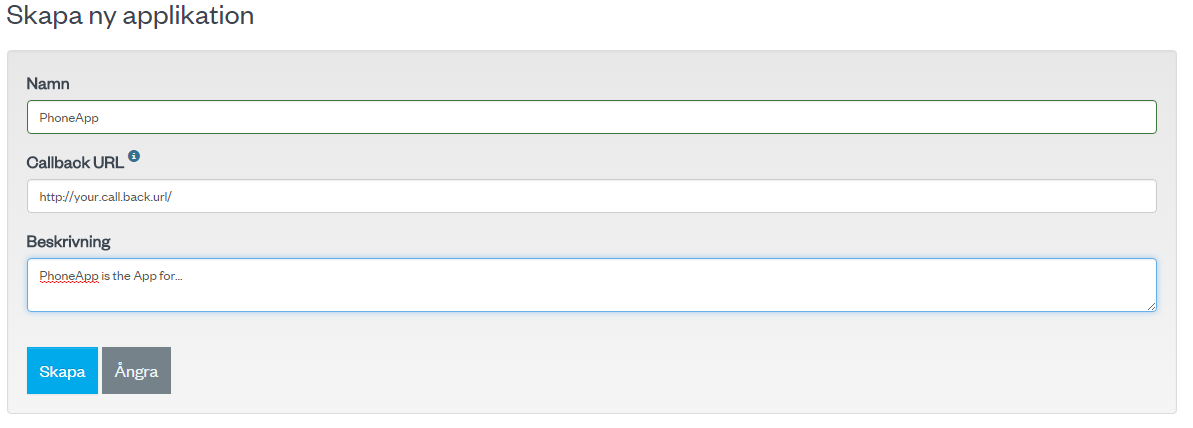
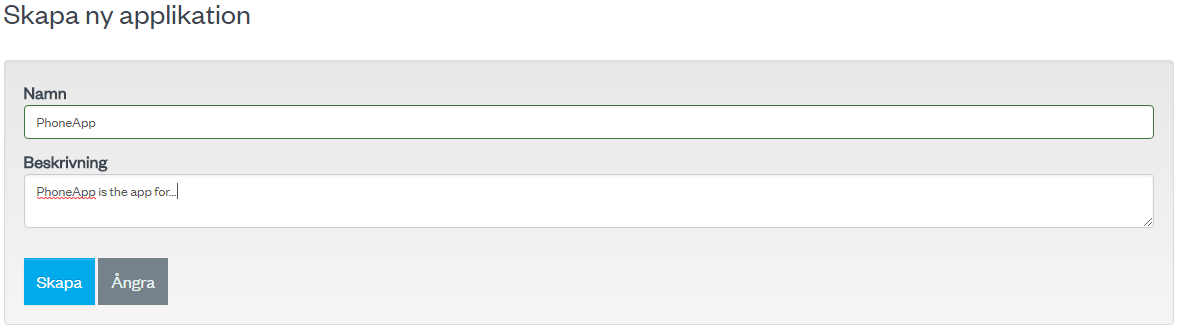
Get started refinements.

diff --git a/js/app/views/guides/get-started.view.html b/js/app/views/guides/get-started.view.html
@@ -84,7 +84,7 @@
         </div>
         <div class="col-xs-12 col-md-12">
           <p>
-            I formuläret anger du namn, callback url samt beskrivning och väljer sedan Skapa. Applikationen skapas och du återfinner den nu i listan.
+            I formuläret anger du namn samt beskrivning och väljer sedan Skapa. Applikationen skapas och du återfinner den nu i listan.
           </p>
         </div>
         <div class="col-xs-12 col-md-12">
